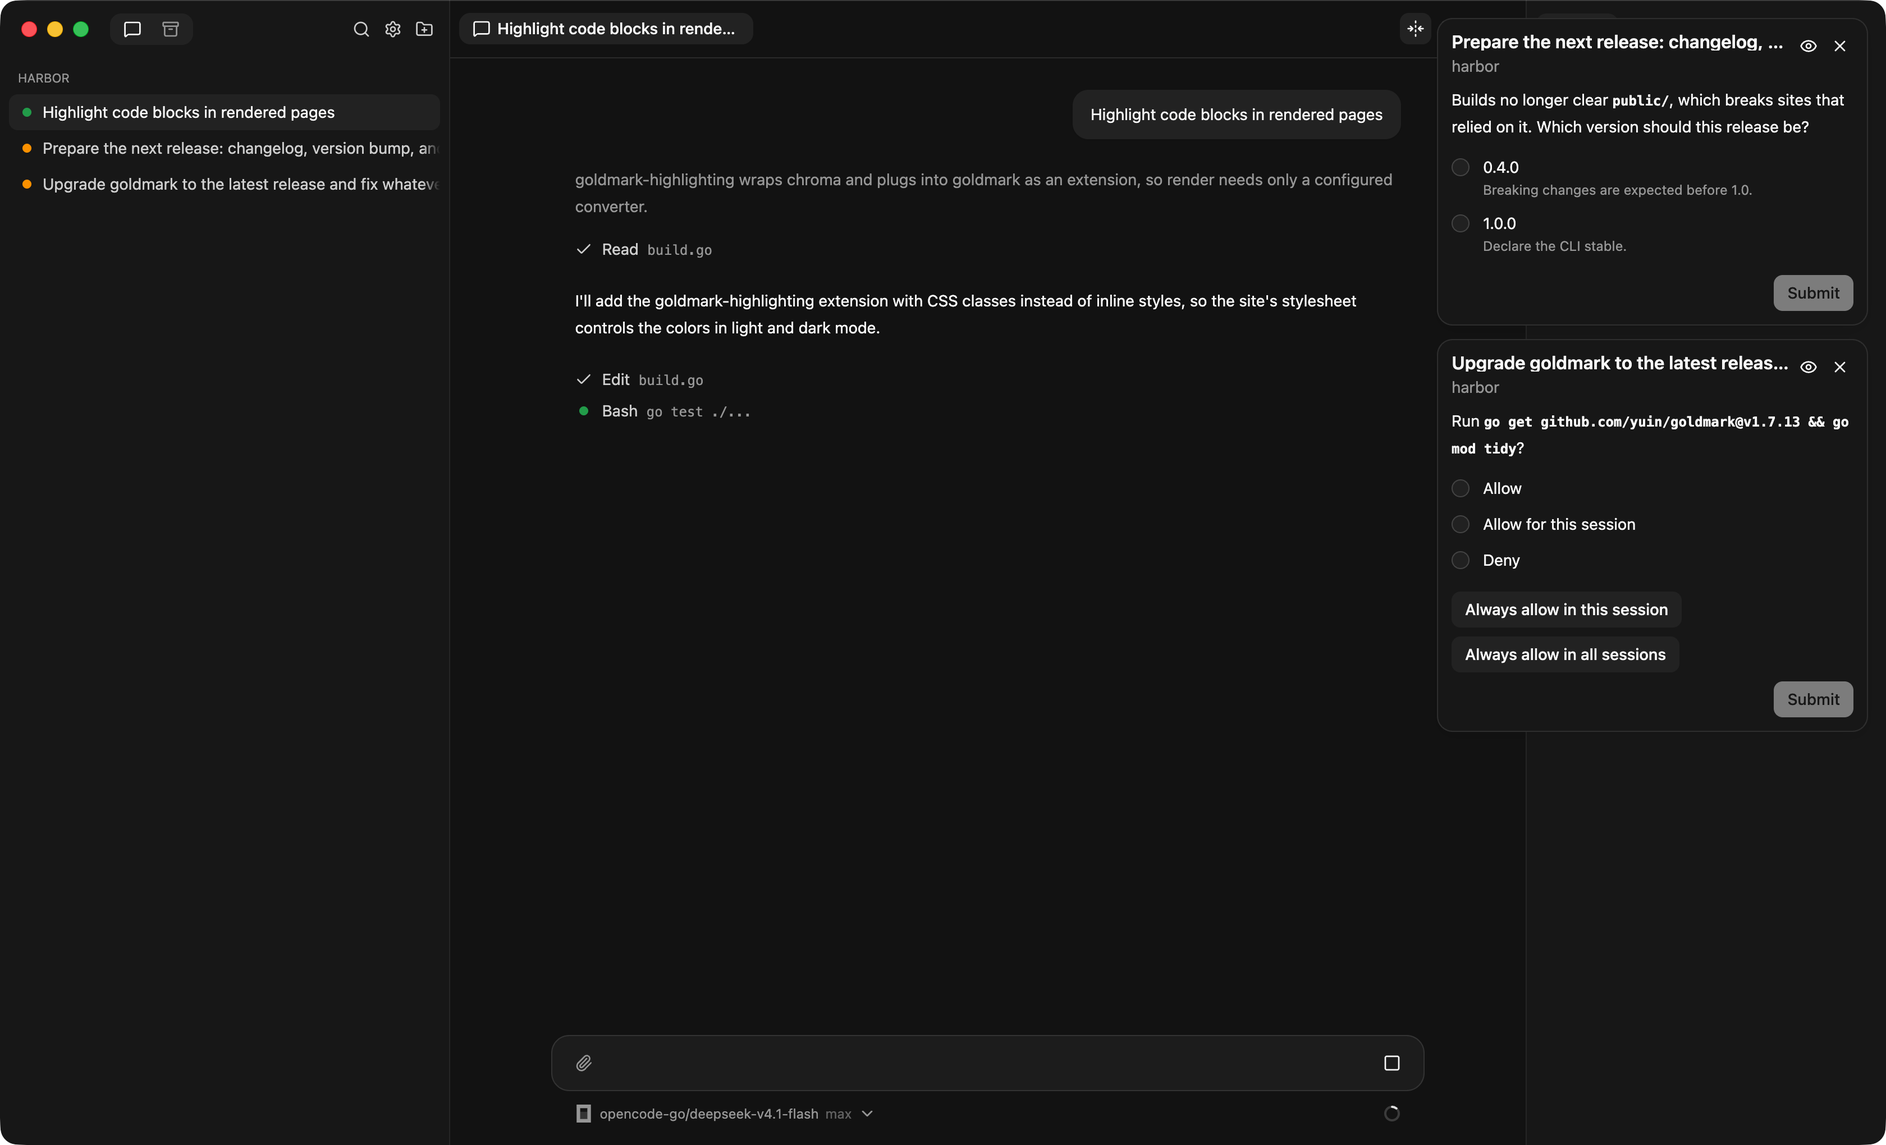
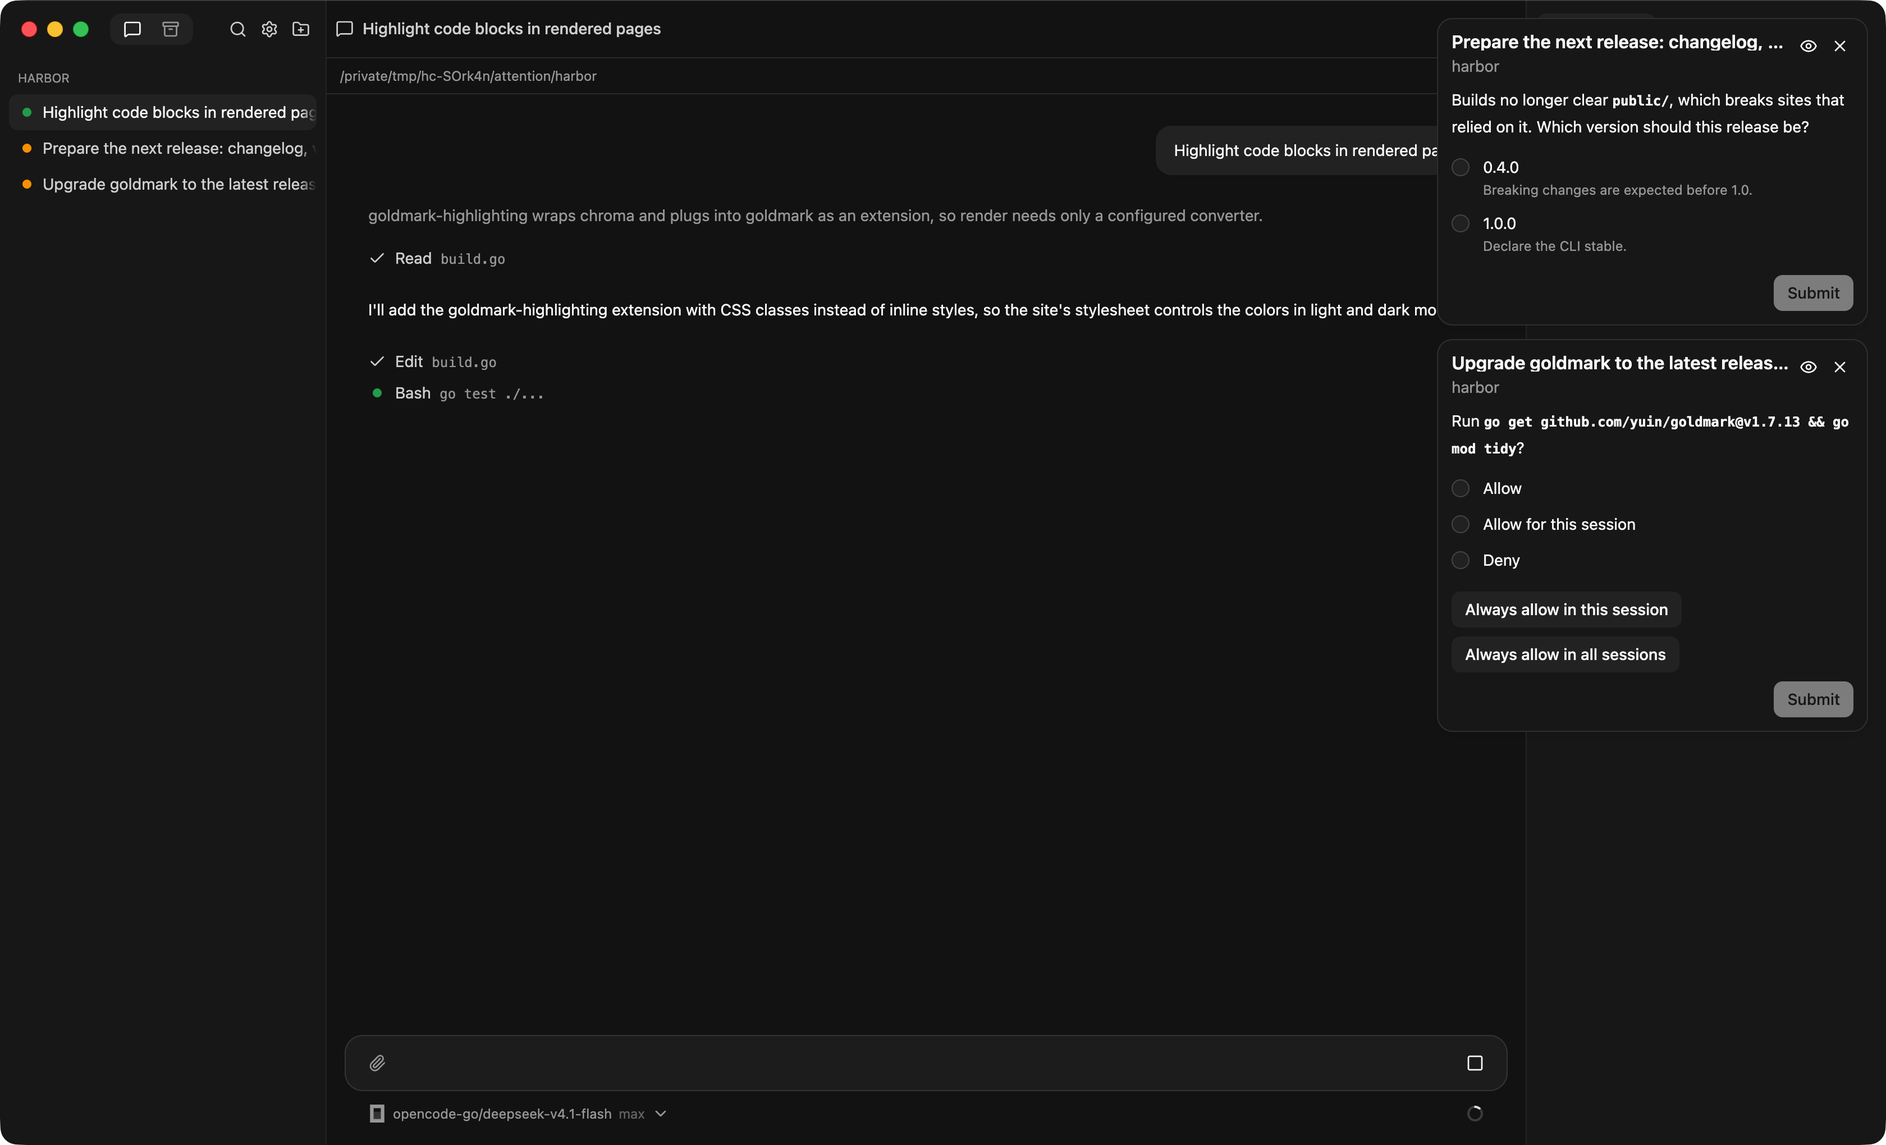
Refresh documentation and screenshots and simplify task offers

diff --git a/internal/ui/web/transcript/transcript.test.tsx b/internal/ui/web/transcript/transcript.test.tsx
@@ -173,20 +173,22 @@ test('an attention request offers its choices, waits while sending, and opens ag
   expect(find(root, '.attention-item-answer').textContent).toBe('no');
 });
 
-test('a new task offer stays above the composer, sends one choice, and records it', () => {
+test.each(['New session', 'Do it here'])('a task offer sends %s immediately, prevents duplicate answers, and records it', choice => {
   const fetches = spyOn(globalThis, 'fetch').mockReturnValue(new Promise<Response>(() => {}));
-  const {root, send} = setup([{id: 'o', kind: 'attention', text: 'Fix the parser', choices: ['New session', 'Do it here']}]);
+  const offer = {id: 'o', kind: 'attention' as const, offer: true, text: 'Fix the parser', choices: ['New session', 'Do it here']};
+  const {root, send} = setup([offer]);
   const pending = find(root, '.transcript-pending');
-  expect(findAll(pending, '[role="radio"][data-choice]').map(r => r.getAttribute('data-choice'))).toEqual(['New session', 'Do it here']);
-  choose(root, 'New session');
-  submit(root);
-  choose(root, 'Do it here');
-  submit(root);
+  expect(pending.querySelector('[role="radio"], .attention-form-submit')).toBeNull();
+  const buttons = findAll(pending, 'button');
+  expect(buttons.map(button => button.getAttribute('aria-label') ?? button.textContent)).toEqual(['Dismiss task', 'New session', 'Do it here']);
+  act(() => buttons.find(button => button.textContent === choice)!.click());
+  expect(buttons.every(button => button.hasAttribute('disabled'))).toBe(true);
+  act(() => buttons.forEach(button => button.click()));
   expect(fetches).toHaveBeenCalledTimes(1);
-  expect(Object.fromEntries(requestParams(fetches.mock.calls, 0))).toEqual({action: 'answer', id: 's', request: 'o', choice: 'New session'});
-  send([{id: 'o', kind: 'attention', text: 'Fix the parser', choices: ['New session', 'Do it here'], done: true, answer: 'New session', seq: 0}]);
+  expect(Object.fromEntries(requestParams(fetches.mock.calls, 0))).toEqual({action: 'answer', id: 's', request: 'o', choice});
+  send([{...offer, done: true, answer: choice}]);
   expect(root.querySelector('.transcript-pending .attention-item')).toBeNull();
-  expect(find(root, '.attention-item').textContent).toContain('New session');
+  expect(find(root, '.attention-item').textContent).toContain(choice);
 });
 
 test('current and saved two-choice offers can be dismissed and leave the pending area', () => {
@@ -195,9 +197,7 @@ test('current and saved two-choice offers can be dismissed and leave the pending
     const offer = {id: 'o', kind: 'attention' as const, offer: true, text: 'Fix the parser', choices};
     const {root, send} = setup([offer]);
     const pending = find(root, '.transcript-pending');
-    expect(findAll(pending, '[role="radio"][data-choice]').map(r => r.getAttribute('data-choice'))).toEqual(['New session', 'Do it here', 'Dismiss']);
-    choose(root, 'Dismiss');
-    submit(root);
+    act(() => find(pending, '[aria-label="Dismiss task"]').click());
     const call = fetches.mock.calls.at(-1)!;
     expect(Object.fromEntries(new URL(String(call[0]), 'http://x/').searchParams)).toEqual({action: 'answer', id: 's', request: 'o', choice: 'Dismiss'});
     send([{...offer, done: true, answer: 'Dismiss'}]);
@@ -208,8 +208,23 @@ test('current and saved two-choice offers can be dismissed and leave the pending
 });
 
 test('an offer in an archived transcript cannot be answered', () => {
-  const {root} = setup([{id: 'o', kind: 'attention', text: 'Fix the parser', choices: ['New session', 'Do it here']}], testSession({id: 's', ended: true, activity: 'exited'}));
-  expect(findAll(root, '[role="radio"]').every(row => row.hasAttribute('disabled'))).toBe(true);
+  const fetches = spyOn(globalThis, 'fetch');
+  const {root} = setup([{id: 'o', kind: 'attention', offer: true, text: 'Fix the parser', choices: ['New session', 'Do it here']}], testSession({id: 's', ended: true, activity: 'exited'}));
+  const buttons = findAll(root, '.attention-item button');
+  expect(buttons).toHaveLength(3);
+  expect(buttons.every(button => button.hasAttribute('disabled'))).toBe(true);
+  act(() => buttons.forEach(button => button.click()));
+  expect(fetches).not.toHaveBeenCalled();
+});
+
+test('a refused task placement can be retried', async () => {
+  const fetches = stubFetch(() => new Response('Could not answer', {status: 409}));
+  const {root} = setup([{id: 'o', kind: 'attention', offer: true, text: 'Fix the parser', choices: ['New session', 'Do it here']}]);
+  const buttons = findAll(root, '.attention-item button');
+  await act(async () => buttons[2].click());
+  expect(buttons.every(button => !button.hasAttribute('disabled'))).toBe(true);
+  await act(async () => buttons[2].click());
+  expect(fetches).toHaveBeenCalledTimes(2);
 });
 
 test('an approval request offers to always allow its tool in either scope', async () => {

diff --git a/internal/ui/web/transcript/task-offer.tsx b/internal/ui/web/transcript/task-offer.tsx
@@ -1,0 +1,33 @@
+// Task placement is an immediate action, not a question to fill out and submit.
+import {useState} from 'react';
+import {answerRequest} from '../api.ts';
+import {cleared} from '../agent/drafts.ts';
+import {Button} from '../components/ui/button';
+import {Icon} from '../shared/icon.tsx';
+import {useStore} from '../store.ts';
+import {Markdown} from './markdown.tsx';
+import type {AttentionItem} from './types.ts';
+
+export function TaskOffer({session, item, ended}: {session: string; item: AttentionItem; ended?: boolean}) {
+  const [, store] = useStore();
+  const [sending, setSending] = useState(false);
+  const locked = sending || !!ended;
+  const answer = async (choice: string) => {
+    if (locked) return;
+    setSending(true);
+    if (await answerRequest(store, session, item.id, [choice], '')) {
+      store.update(state => cleared(state, `${session}/${item.id}`));
+    } else setSending(false);
+  };
+
+  return <div className="space-y-3">
+    <div className="flex items-start justify-between gap-3">
+      <div className="attention-item-question min-w-0"><Markdown text={item.text ?? ''} style="chat" /></div>
+      <Button type="button" variant="ghost" size="icon-xs" className="shrink-0" aria-label="Dismiss task" title="Dismiss task" disabled={locked} onClick={() => answer('Dismiss')}><Icon name="close" /></Button>
+    </div>
+    <div className="flex gap-2">
+      <Button type="button" size="sm" disabled={locked} onClick={() => answer('New session')}>New session</Button>
+      <Button type="button" variant="secondary" size="sm" disabled={locked} onClick={() => answer('Do it here')}>Do it here</Button>
+    </div>
+  </div>;
+}

diff --git a/scripts/screenshots/main.js b/scripts/screenshots/main.js
@@ -29,7 +29,7 @@ const sceneFiles = process.argv.slice(2).filter(arg => arg.endsWith('.json'));
 // The page's own default workbench, which a scene's workbench overrides.
 const defaultWorkbench = {
   sidebar: true, rightPanel: true, panel: false, rightTab: 'files', wrap: false, fixedWidth: true,
-  sizes: {sidebar: 400, rightPanel: 320, panel: 240}, sidebarTab: 'sessions',
+  sizes: {sidebar: 290, rightPanel: 320, panel: 240, editor: 560}, sidebarTab: 'sessions',
   collapsedWorkspaces: {}, collapsedSessions: {}, sidebarScroll: {sessions: 0, archived: 0},
 };
 
@@ -328,6 +328,10 @@ async function capture(scene, ids, backend, window, name) {
     await contents.executeJavaScript('document.fonts.ready.then(() => true)');
     await pageCondition(contents, `${errorCard} || document.querySelector('.transcript-list')?.textContent.includes(${JSON.stringify(top.turns[0].prompt)})`);
     await checkError();
+    if (scene.comparison === 'branch') {
+      await contents.executeJavaScript(`[...document.querySelectorAll('[role="tab"]')].find(tab => tab.textContent === 'Branch changes').dispatchEvent(new MouseEvent('mousedown', {bubbles: true, button: 0}))`);
+      await pageCondition(contents, `document.querySelector('.git-panel')?.textContent.includes('Compared with')`);
+    }
     await until(() => nativeTheme.themeSource === theme && tabs.every(tab => requests.completed.includes(tab)) && requests.inflight.size === 0);
     await contents.executeJavaScript('new Promise(resolve => requestAnimationFrame(() => requestAnimationFrame(() => resolve(true))))');
     await checkError();

diff --git a/internal/ui/web/transcript/attention-item.tsx b/internal/ui/web/transcript/attention-item.tsx
@@ -5,14 +5,17 @@ import {Icon} from '../shared/icon.tsx';
 import {AttentionForm} from './attention-form.tsx';
 import {Disclosure} from './disclosure.tsx';
 import {Markdown} from './markdown.tsx';
+import {TaskOffer} from './task-offer.tsx';
 import type {RowControls} from './transcript-item.tsx';
 import type {AttentionItem as Attention} from './types.ts';
 
 export function AttentionItem({item, session}: Pick<RowControls, 'session'> & {item: Attention}) {
   return (
     <div className="attention-item attention-item-open space-y-3">
-      <div className="attention-item-question"><Markdown text={item.text ?? ''} style="chat" /></div>
-      <AttentionForm session={session.id} item={item} ended={session.ended} />
+      {item.offer ? <TaskOffer session={session.id} item={item} ended={session.ended} /> : <>
+        <div className="attention-item-question"><Markdown text={item.text ?? ''} style="chat" /></div>
+        <AttentionForm session={session.id} item={item} ended={session.ended} />
+      </>}
     </div>
   );
 }

diff --git a/internal/ui/web/sidebar/sidebar.test.tsx b/internal/ui/web/sidebar/sidebar.test.tsx
@@ -90,6 +90,18 @@ test('workspace row background selects its dashboard without changing the action
   expect(document.querySelector('[role=menu]')).not.toBeNull();
 });
 
+test('only an expanded workspace with sessions adds bottom spacing', () => {
+  const {store, root} = setup([session('a')]);
+  const section = find(root, '[data-workspace="w"]');
+  expect(section.classList.contains('mb-2')).toBe(true);
+  click(find(section, '[aria-label="Collapse repo"]'));
+  expect(section.classList.contains('mb-2')).toBe(false);
+  click(find(section, '[aria-label="Expand repo"]'));
+  expect(section.classList.contains('mb-2')).toBe(true);
+  act(() => store.update(state => ({...state, workspaces: state.workspaces.map(workspace => ({...workspace, sessions: []}))})));
+  expect(section.classList.contains('mb-2')).toBe(false);
+});
+
 test('Enter saves a changed title, Escape cancels, and leaving the field saves', () => {
   const {root, posted} = setup([session('a')]);
   let field = rename(root, 'a');

diff --git a/internal/ui/web/sidebar/workspace-section.tsx b/internal/ui/web/sidebar/workspace-section.tsx
@@ -27,7 +27,7 @@ export function WorkspaceSection({workspace, onMenu, renaming, onRenaming}: Work
     : '[--workspace-surface:var(--sidebar)] hover:[--workspace-surface:var(--accent)] dark:hover:[--workspace-surface:color-mix(in_srgb,var(--accent)_50%,var(--sidebar))]';
   const headingId = `workspace-section-${workspace.id}`;
   return <Collapsible open={open} onOpenChange={setOpen} asChild>
-    <section className={`workspace-section ${workspace.sessions.length ? 'mb-2 last:mb-0' : ''}`} data-workspace={workspace.id} aria-labelledby={headingId}>
+    <section className={`workspace-section ${open && workspace.sessions.length ? 'mb-2 last:mb-0' : ''}`} data-workspace={workspace.id} aria-labelledby={headingId}>
       <div className={`workspace-section-header group/workspace relative flex items-center rounded-md bg-[var(--workspace-surface)] ${surface}`} title={workspace.path} onClick={e => {
         if (e.target instanceof Element && e.target.closest('button')) return;
         select();

diff --git a/internal/ui/web/notifications/notification-card.tsx b/internal/ui/web/notifications/notification-card.tsx
@@ -9,6 +9,7 @@ import {useEffect, useRef} from 'react';
 import {chooseSession} from '../sessions/session-actions.ts';
 import {useStore} from '../store.ts';
 import {AttentionForm} from '../transcript/attention-form.tsx';
+import {TaskOffer} from '../transcript/task-offer.tsx';
 import {Markdown, MarkdownText} from '../transcript/markdown.tsx';
 import {closeCard} from './notifications.ts';
 import type {Card as CardData} from './types.ts';
@@ -79,7 +80,7 @@ export function NotificationCard({card}: {card: CardData}) {
       {card.kind !== 'error' && (
         <CardContent className="notification-card-details space-y-2 px-3">
           {card.kind === 'request' ? (
-            <>
+            card.item.offer ? <TaskOffer session={card.session.id} item={card.item} /> : <>
               <div className="notification-card-text"><Markdown text={card.item.text ?? ''} style="chat" /></div>
               <AttentionForm session={card.session.id} item={card.item} />
             </>

diff --git a/internal/ui/web/transcript/attention-form.tsx b/internal/ui/web/transcript/attention-form.tsx
@@ -38,8 +38,7 @@ export function AttentionForm({session, item, ended}: AttentionFormProps) {
   const reply = useRef<HTMLInputElement>(null);
   const key = `${session}/${item.id}`;
   const {text, choices = []} = draftOf(state, key);
-  // Older saved offers have only the two placement choices.
-  const options = item.offer && !item.choices?.includes('Dismiss') ? [...(item.choices ?? []), 'Dismiss'] : item.choices ?? [];
+  const options = item.choices ?? [];
   const selected = options.filter(choice => choices.includes(choice));
   const ready = selected.length > 0 || !!text.trim();
   const label = options.length ? 'Other response' : 'Your response';

diff --git a/docs/interface.md b/docs/interface.md
@@ -59,6 +59,7 @@ Files, and Settings. On Linux, terminal copy/paste uses **Ctrl+Shift+C** /
 | Gray dot | Idle. |
 | Dimmed outline | Ended. |
 | Hollow dot | Child session; its state is shown with the same conventions. |
+| Dimmed row | Agent is not running, or the session has ended. Opening a parked session resumes its conversation. |
 
 Click a workspace heading to open its dashboard of recent sessions, including
 archived sessions. The separate chevron collapses or expands its sidebar list.
@@ -100,13 +101,19 @@ within the window. After reset, the last reading is dimmed and marked
 | HTML preview | Relative resources load; scripts are disabled. |
 | HTML/SVG source | Available for supported text encodings within the text limit. |
 | Media | Images, audio, video, and PDFs open in the app, without the text limit. Some formats and codecs may not play. |
-| Git panel | Uncommitted files within the current view’s directory, with status colors and right-aligned added/removed line counts when available. Select a row or its counts to open its diff. Files retains status colors without counts. |
+| Git → Uncommitted | Staged, unstaged, and untracked changes within the current view’s directory, compared with the current commit. |
+| Git → Branch changes | Managed worktree sessions only: net changes since the merge base with the original checkout's current branch, including uncommitted edits. Top-level worktree sessions with unmerged commits offer **Merge into …**. |
 | Quick Open and project search | In Git: tracked and untracked files, excluding ignored and hidden paths. |
 | Project text search | Case-insensitive plain text; skips files over 256 KiB; stops at 1,000 matching lines. |
 
 On a workspace dashboard, file tools and the terminal use the workspace’s main
 checkout and its currently checked-out branch. Sessions use their own working
 directories.
+
+Git rows show status colors and right-aligned added/removed line counts when
+available. Select a row or its counts to open its diff. Files retains status
+colors for uncommitted changes, without counts. The bar above chat shows the
+working directory and current branch; click the branch to open Git.
 
 ## Saved layouts
 

diff --git a/docs/teamwork.md b/docs/teamwork.md
@@ -39,10 +39,11 @@ Outside Git, assign an existing directory instead; Hypercube cannot create
 worktrees there. Worktrees are not sandboxes: agents retain access to your
 local filesystem.
 
-![Worktree sessions showing branch status in the sidebar and a Merge button below the selected session's message box](images/worktrees-light.png)
+![Worktree sessions showing branch status in the sidebar and a Merge into main button in Git's Branch changes view](images/worktrees-light.png)
 
 The branch icons show which sessions have separate working copies. The
-selected top-level session has committed work ready for **Merge**.
+selected top-level session has committed work ready for **Merge into main**
+in **Git → Branch changes**.
 
 ### Supply ignored local files
 
@@ -91,7 +92,9 @@ Children can message their parent but cannot create children of their own.
 If you explicitly ask for delegation, the agent starts a child without asking
 again. For a separate task whose placement you have not chosen, Hypercube
 offers **New session** or **Do it here**. Choose where you want the work done,
-or dismiss the offer. Corrections to the current task need no placement question.
+or use the **X** in the card's top-right corner to dismiss it. Each button
+acts immediately; there is no separate Submit step. Corrections to the current
+task need no placement question.
 
 ![A task-placement question offering a new session or the current session](images/offer-light.png)
 
@@ -119,7 +122,7 @@ child cannot resume. Hypercube removes its managed worktree and branch only
 after the Git checks pass. An existing directory assigned to a child is left
 alone.
 
-For a **top-level** session in its own worktree, choose **Merge** beside the
-branch below the message box. It appears when there are unmerged commits and
+For a **top-level** session in its own worktree, open **Git → Branch changes**
+and choose **Merge into …**. It appears when there are unmerged commits and
 asks the agent to commit remaining work and merge into the original checkout.
 It is an instruction to the agent, not an automatic Git merge.

diff --git a/docs/review-changes.md b/docs/review-changes.md
@@ -37,13 +37,21 @@ on the right for opening another file.
 ## Inspect a diff
 
 1. Open **Git** in the right panel.
-2. Select a changed file or its right-aligned added and removed line counts
+2. Choose the comparison:
+   - **Uncommitted** shows staged, unstaged, and untracked changes against
+     the current commit.
+   - **Branch changes**, available for managed worktree sessions, shows net
+     changes since the common ancestor of the session's branch and the
+     original checkout's current branch. It includes committed work and
+     uncommitted edits, not just the latest commit. The target branch is
+     named above the file list.
+3. Select a changed file or its right-aligned added and removed line counts
    to read its unified diff.
-3. To review committed changes, use Git or ask the agent to inspect the
-   relevant commits and their diffs.
 
-Git lists uncommitted changes within the current view's directory, not the
-whole containing repository. Paths are relative to that directory. Status
+To inspect individual commits or other comparisons, use Git or ask the agent.
+
+Git lists changes within the current view's directory, not the whole
+containing repository. Paths are relative to that directory. Status
 colors also remain visible in **Files**; line counts appear only in **Git**
 and are omitted when unavailable, such as for binary files.
 
@@ -55,6 +63,11 @@ This status refreshes when a session in that workspace finishes a turn.
 
 Added lines are green and removed lines are red. In this example, the diff
 and conversation occupy separate panes while the file tree shows other edits.
+
+The bar above chat shows the working directory and current Git branch.
+Click the branch name to open the Git panel. For top-level worktree sessions
+with unmerged commits, **Git → Branch changes → Merge into …** asks the agent
+to integrate the work; it does not run a merge automatically.
 
 Use **Command+F** on macOS or **Ctrl+F** on Linux to find text in an open
 file or diff. Move between diff changes with **Option+F5** /

diff --git a/agents/documentation.md b/agents/documentation.md
@@ -63,6 +63,8 @@ Each scene declares:
 - Saved tabs and splits in `view`; `view.expanded` names `activity` or item IDs
   to expand in a saved turn. `select` chooses the session; `size` sets window
   dimensions in points.
+- `workbench.rightTab` chooses Files or Git (`files` or `git`);
+  `comparison: "branch"` selects Git's Branch changes view for a worktree.
 
 ### Capture requirements
 
@@ -75,8 +77,8 @@ capture that differs from the rendered page.
 
 Open every generated image and check theme, content, toolbar layout, and native
 window buttons.
-Keep toolbars fully visible and session labels readable; do not squeeze the
-sidebar to fit more content. Use several sessions across workspaces, a
+Use the app's default panel sizes. Keep toolbars fully visible and session
+labels readable. Use several sessions across workspaces, a
 transcript filling its column, and the Files panel open. Commit new captures
 with their scene changes.
 
